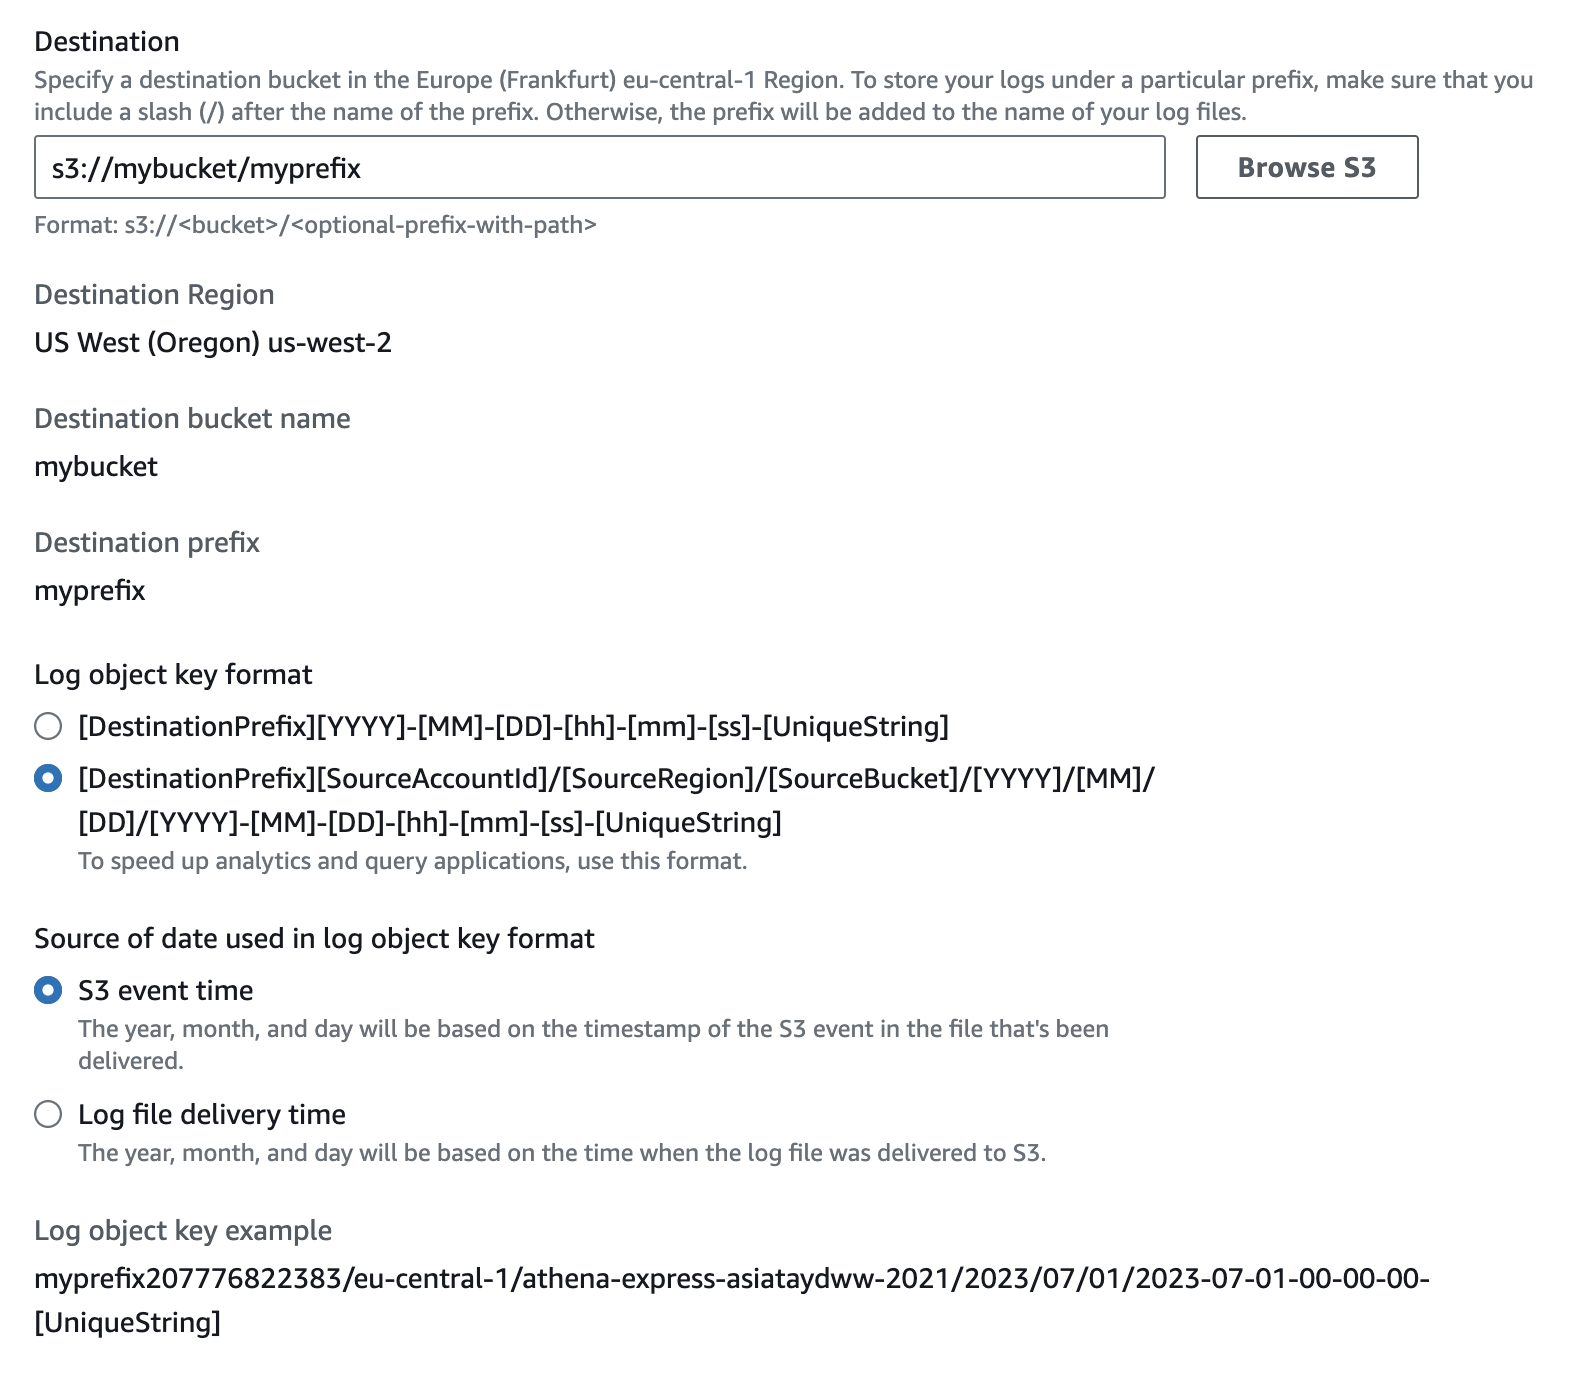
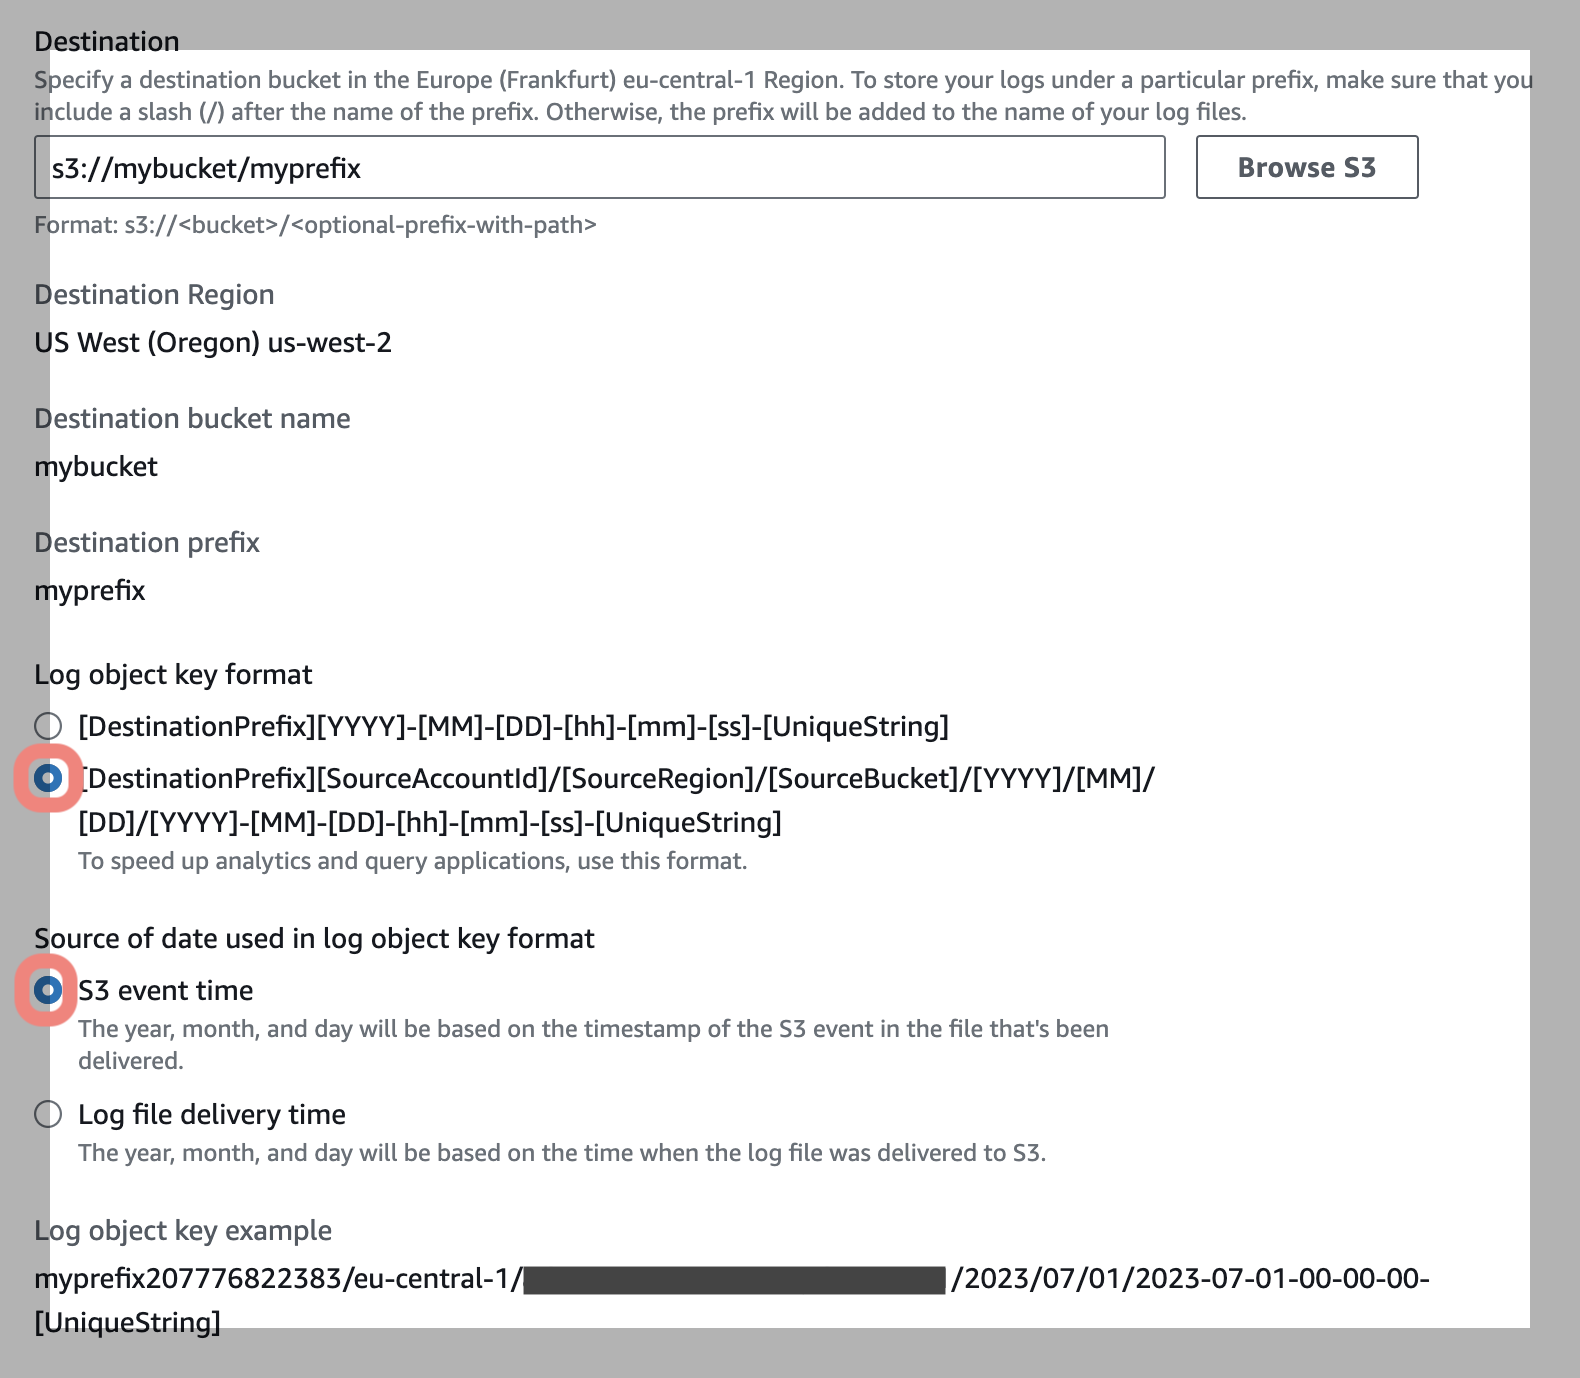
feat: link to moule, upd images. is ready except registry

Changed region(s): [[0.0, 0.0, 1.0, 1.0]]

diff --git a/content/blog/s3-server-access-logging-date-partitioning/index.md b/content/blog/s3-server-access-logging-date-partitioning/index.md
@@ -24,7 +24,7 @@ Amazon S3 server access logging now [supports](https://aws.amazon.com/about-aws/
 You can find more details here: [How do I enable log delivery?](https://docs.aws.amazon.com/AmazonS3/latest/userguide/ServerLogs.html#server-access-logging-overview)
 
 ### How to query partitioned s3 access logs using Athena?
-I've created terraform module that creates an AWS Glue table designed specifically to query Amazon S3 server access logs in the new [date-based partitioning](https://aws.amazon.com/about-aws/whats-new/2023/11/amazon-s3-server-access-logging-date-partitioning/) format.
+I've created terraform [module](https://github.com/fivexl/terraform-aws-s3-access-logs-athena-table) that creates an AWS Glue table designed specifically to query Amazon S3 server access logs in the new [date-based partitioning](https://aws.amazon.com/about-aws/whats-new/2023/11/amazon-s3-server-access-logging-date-partitioning/) format.
 Simply specify the bucket name and prefix where the logs are stored and the module will create a table:    
 ```hcl
 module "s3_access_logs_glue_table" {
@@ -53,7 +53,4 @@ This way Athena will only scan the logs for the specified date and will not incu
 If you have any questions or suggestions, feel free to contact me on [LinkedIn](https://www.linkedin.com/in/alexey-eremin/), or [Twitter](https://twitter.com/AA_Eremin)
 
 # TODO:
-- [ ] Add link to the terraform module
 - [ ] Update link to the terraform module in tf.hcl after module published to the registry
-- [ ] obfuscate some info in images
-- [ ] add selection / poiters to images
